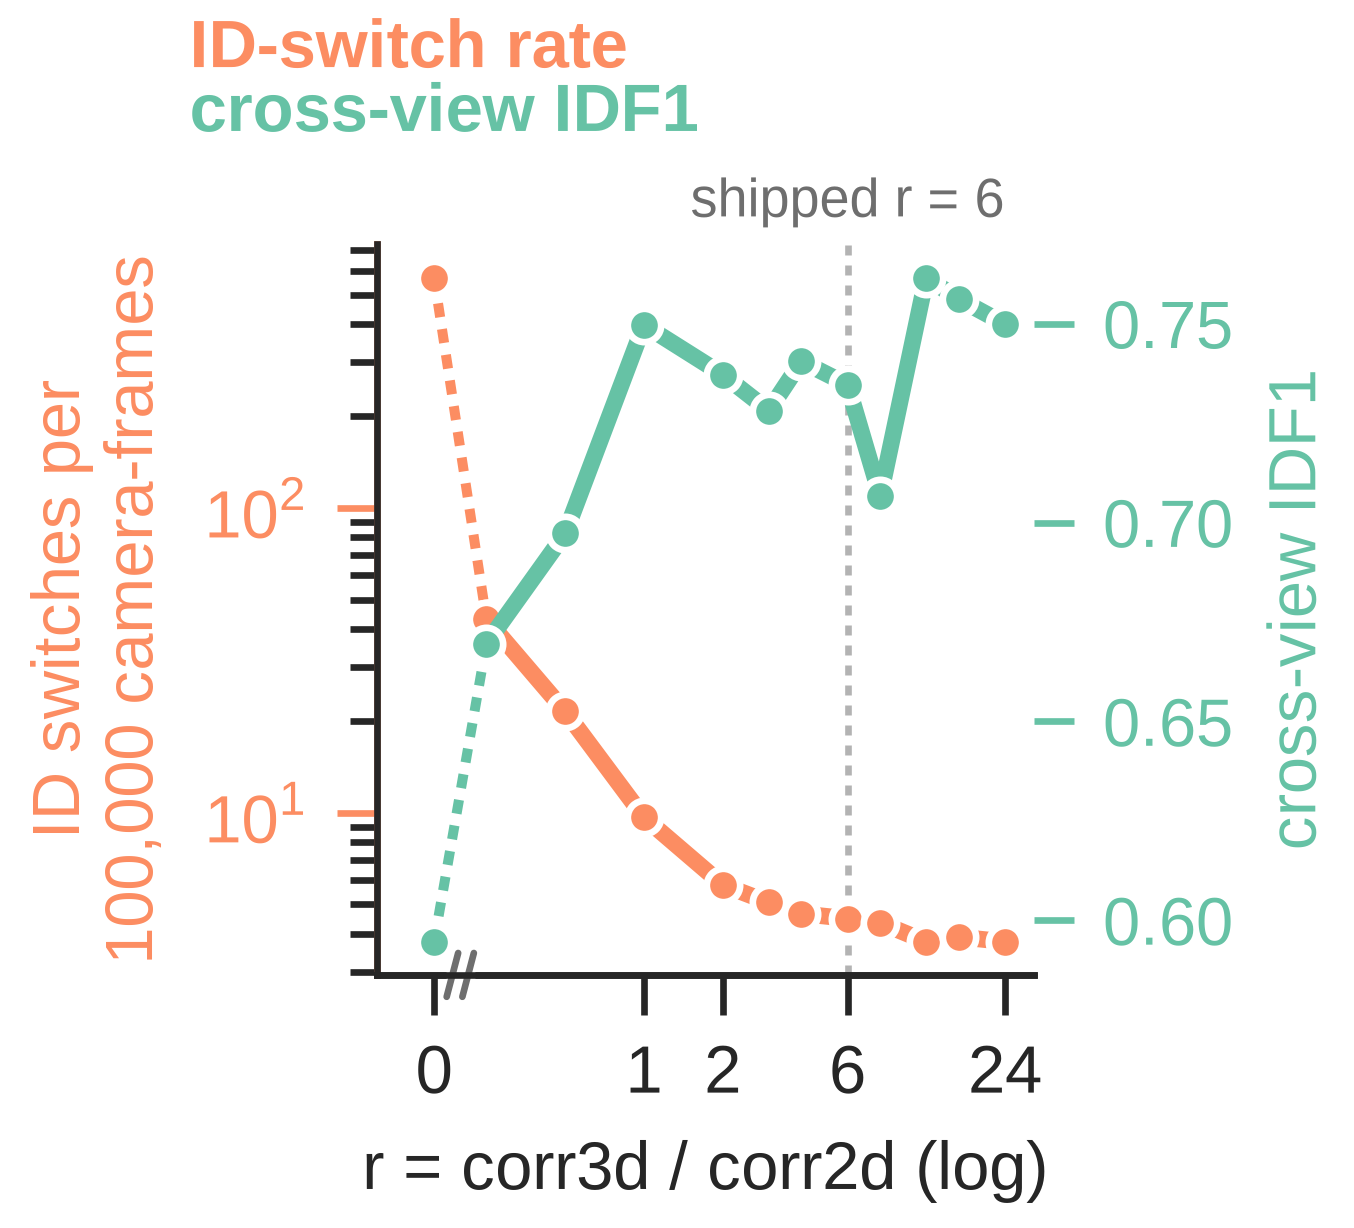
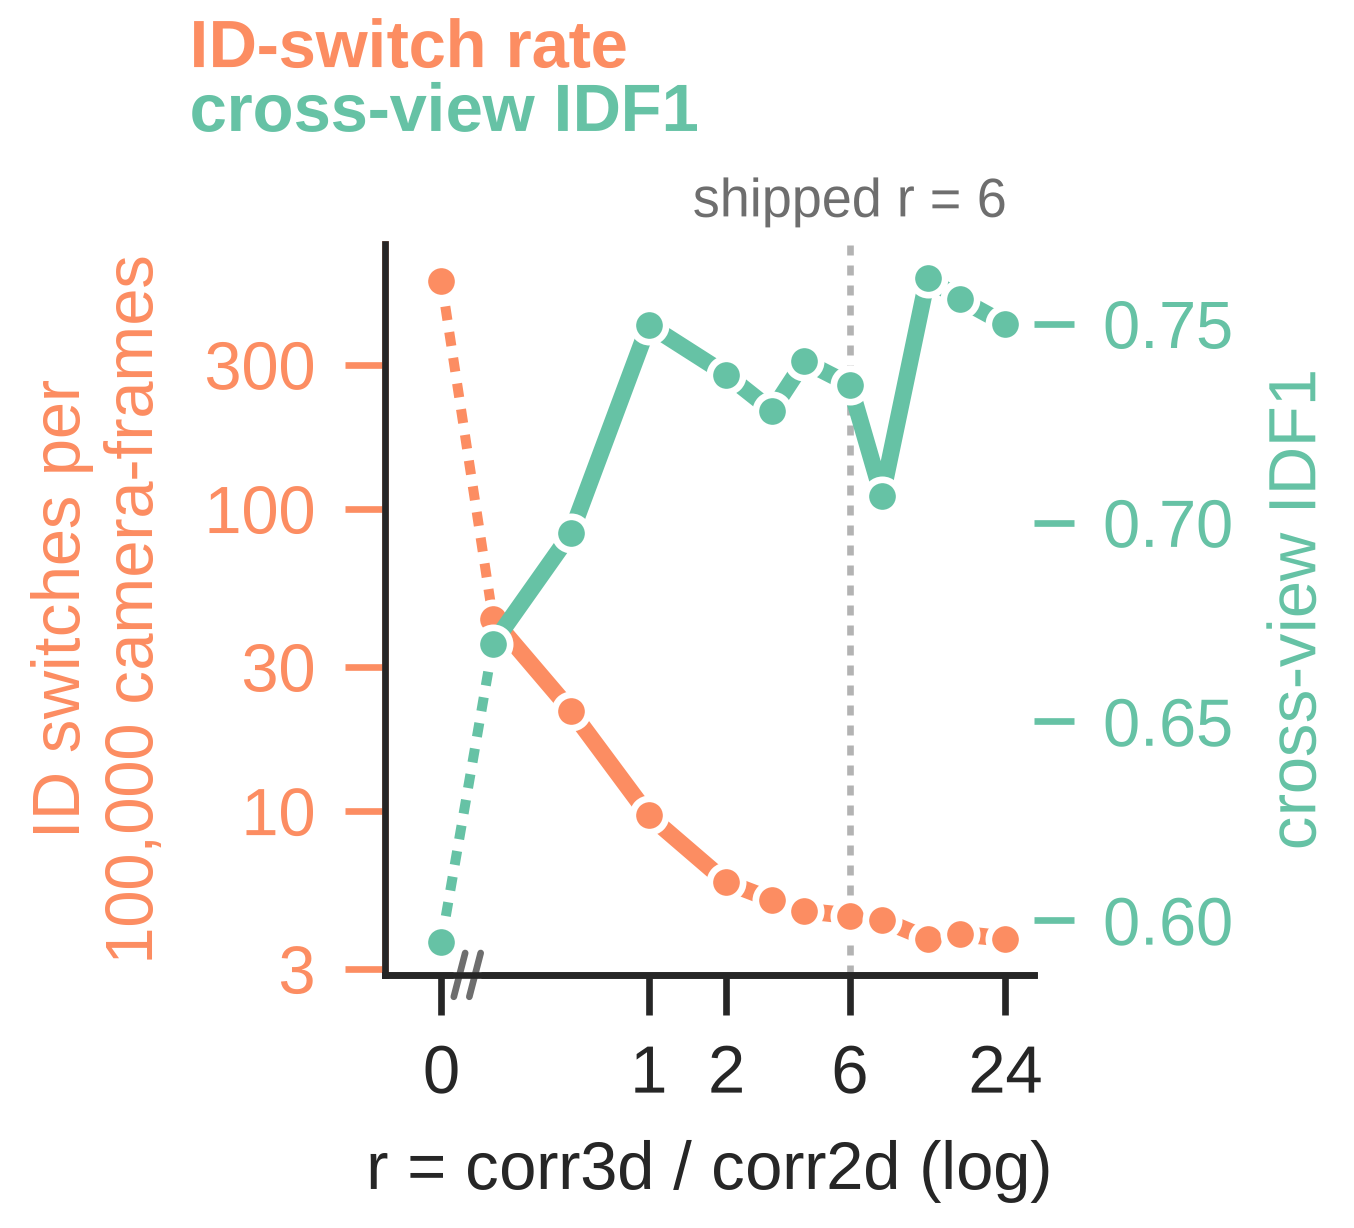
figs: Fig 3e's y axis was unreadable at the bottom, where its claim lives
With the rate running 3.8 to 569, matplotlib's default log formatter labelled
only 10^1 and 10^2, so the four lowest points sat below the lowest label with
nothing to place them against. Read quickly, 3.8 looks like it could be 0.38 --
which is exactly how it was read. Ticks are now plain digits on every decade
the data touches (3, 10, 30, 100, 300) and the limits are pinned to the data
rather than to whole decades.

That bottom end is where the panel's claim lives: the 3D term takes the switch
rate from 569 per 100,000 camera-frames to under 4.

diff --git a/figs/panels/fig3_05_sweep.py b/figs/panels/fig3_05_sweep.py
@@ -184,6 +184,19 @@ def main():
     # (src.style.footnote reports to the build log), so a unit that lives only
     # there would not reach the reader.
     ax.set_ylabel("ID switches per\n100,000 camera-frames", color=SALMON)
+    # PLAIN NUMBERS ON EVERY DECADE THE DATA TOUCHES, not matplotlib's default
+    # powers of ten. The series runs 3.8 to 569, so the default labelled only 10^1
+    # and 10^2 and the four lowest points sat BELOW the lowest label with nothing to
+    # place them against: read quickly, 3.8 looks like it could be 0.38. Ticks at 3,
+    # 10, 30, 100 and 300 in plain digits make the bottom of the range readable,
+    # which is where the panel's own claim lives -- the 3D term takes the rate from
+    # 569 to under 4.
+    from matplotlib.ticker import FixedLocator, FixedFormatter
+    decades = [3, 10, 30, 100, 300]
+    ax.yaxis.set_major_locator(FixedLocator(decades))
+    ax.yaxis.set_major_formatter(FixedFormatter([str(v) for v in decades]))
+    ax.yaxis.set_minor_locator(FixedLocator([]))
+    ax.set_ylim(rate.min() * 10 ** -0.12, rate.max() * 10 ** 0.12)
     ax.tick_params(axis="y", colors=SALMON)
     ax.spines["left"].set_color(SALMON)
 
